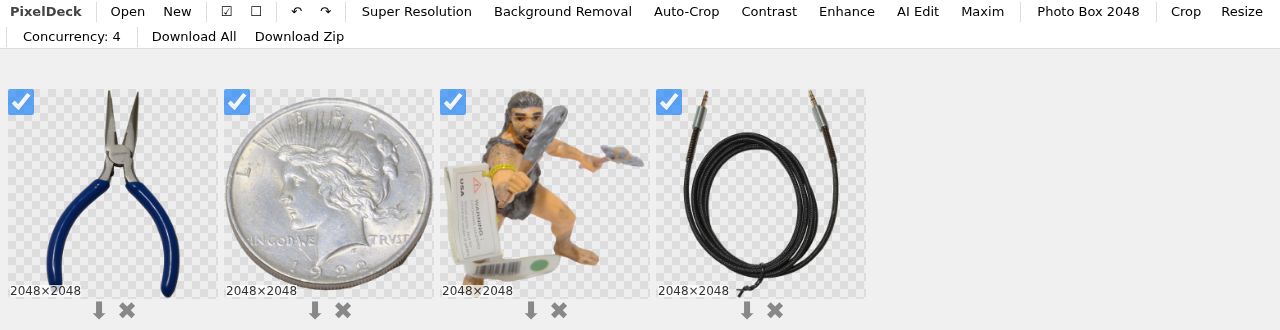
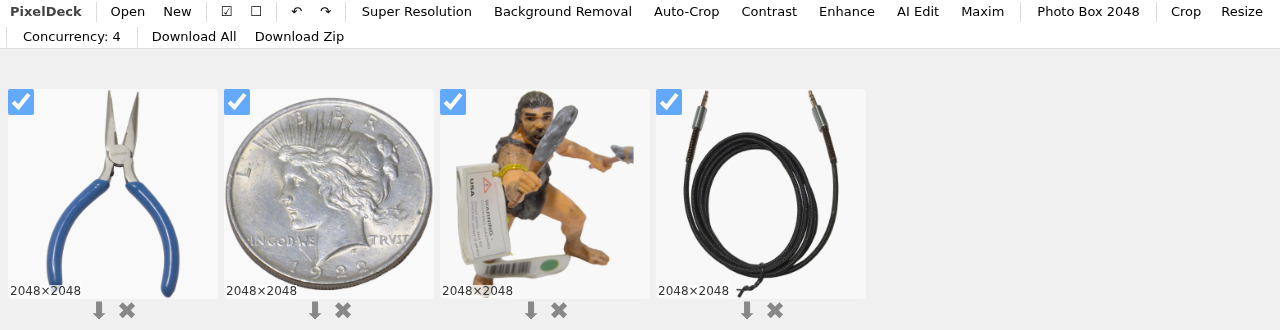
README: run exposure fusion after the Photo Box routine
The pair had two of the four on white and two still showing transparency
through, which looked like a mistake. Exposure Fusion now runs after the
Photo Box routine for all four, so the finished set is consistent.

diff --git a/README.md b/README.md
@@ -14,9 +14,9 @@ grey paper, no framing.
 ![the batch editor holding four raw photographs, each shown at its original
 size](docs/photo-box-before.png)
 
-The same four after Exposure Fusion and the Photo Box routine, which runs
-auto-crop, background removal, a crop to the subject and a resize to 2048 in
-one go:
+The same four after the Photo Box routine — auto-crop, background removal, a
+crop to the subject and a resize to 2048 — and then exposure fusion, which
+evens out the light and drops them all onto white:
 
 ![the same four photographs cut out, straightened and resized to
 2048x2048](docs/photo-box-after.png)
